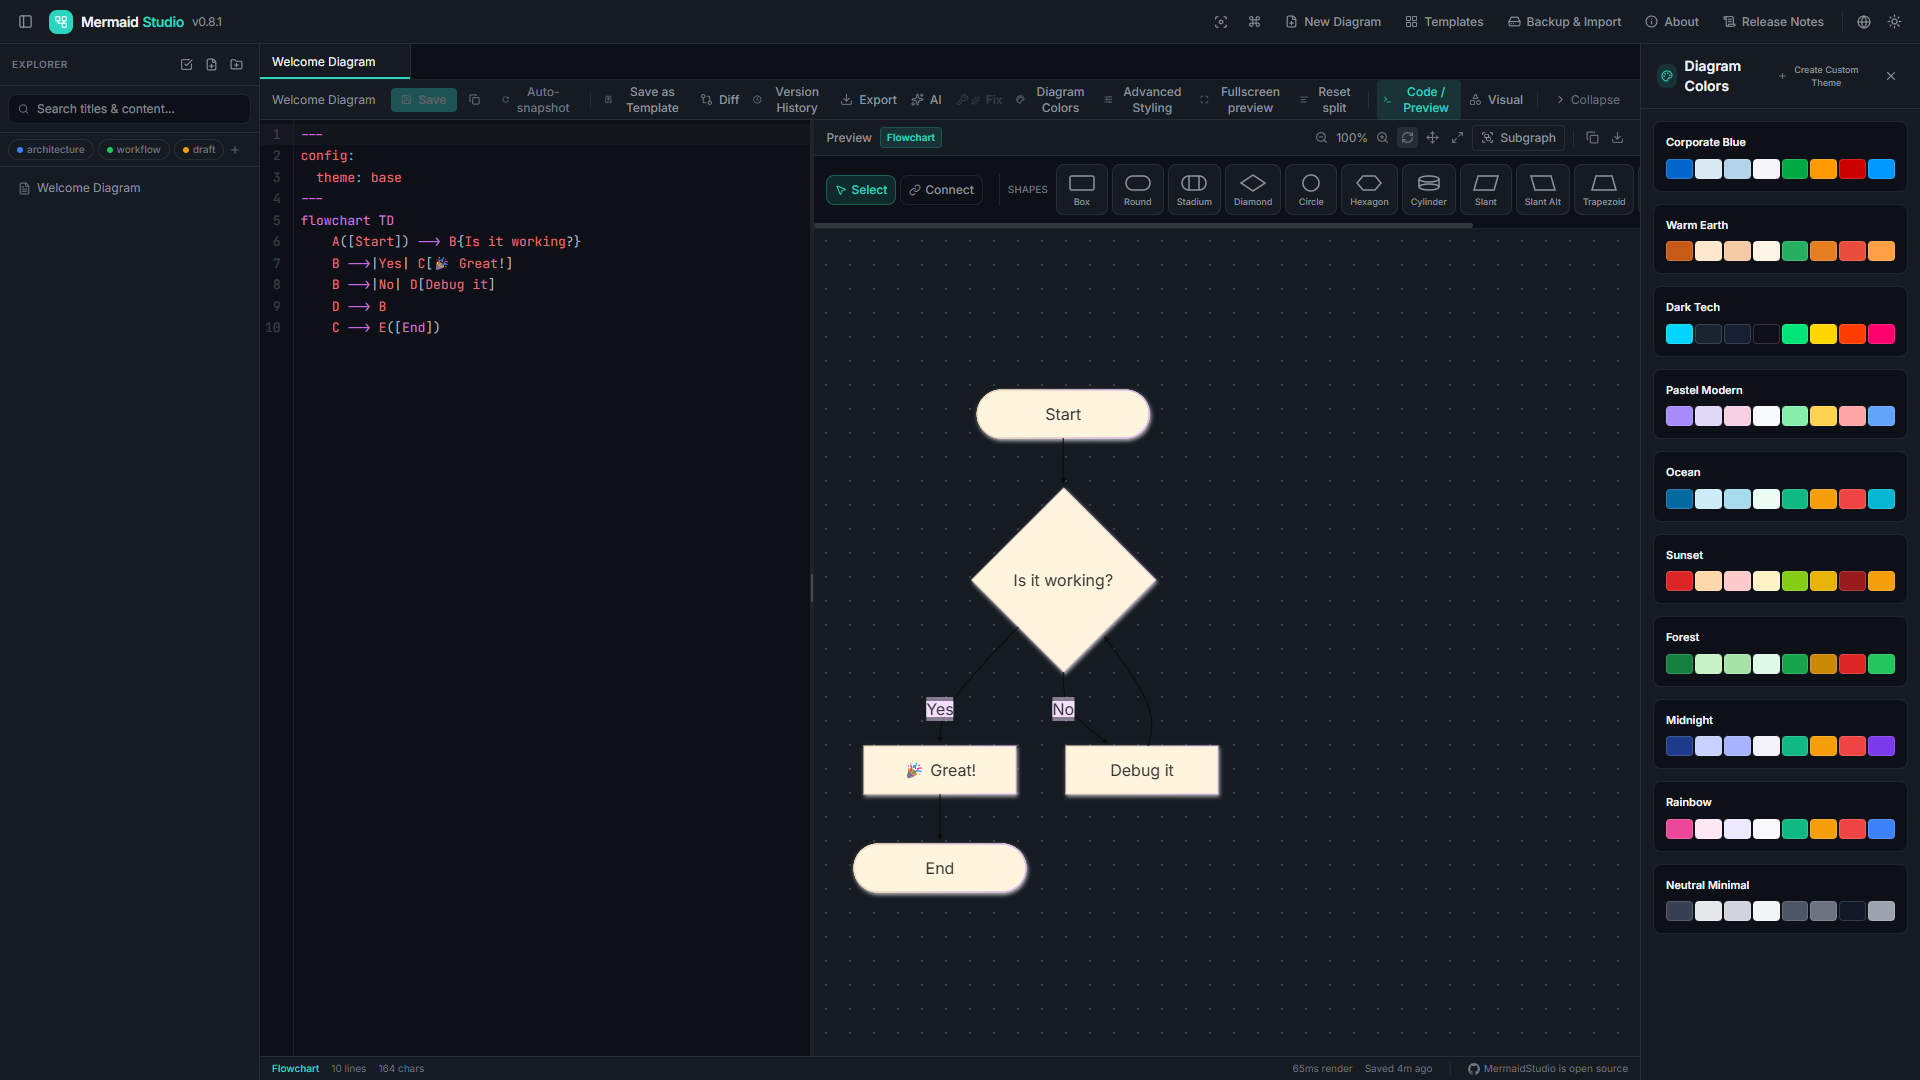
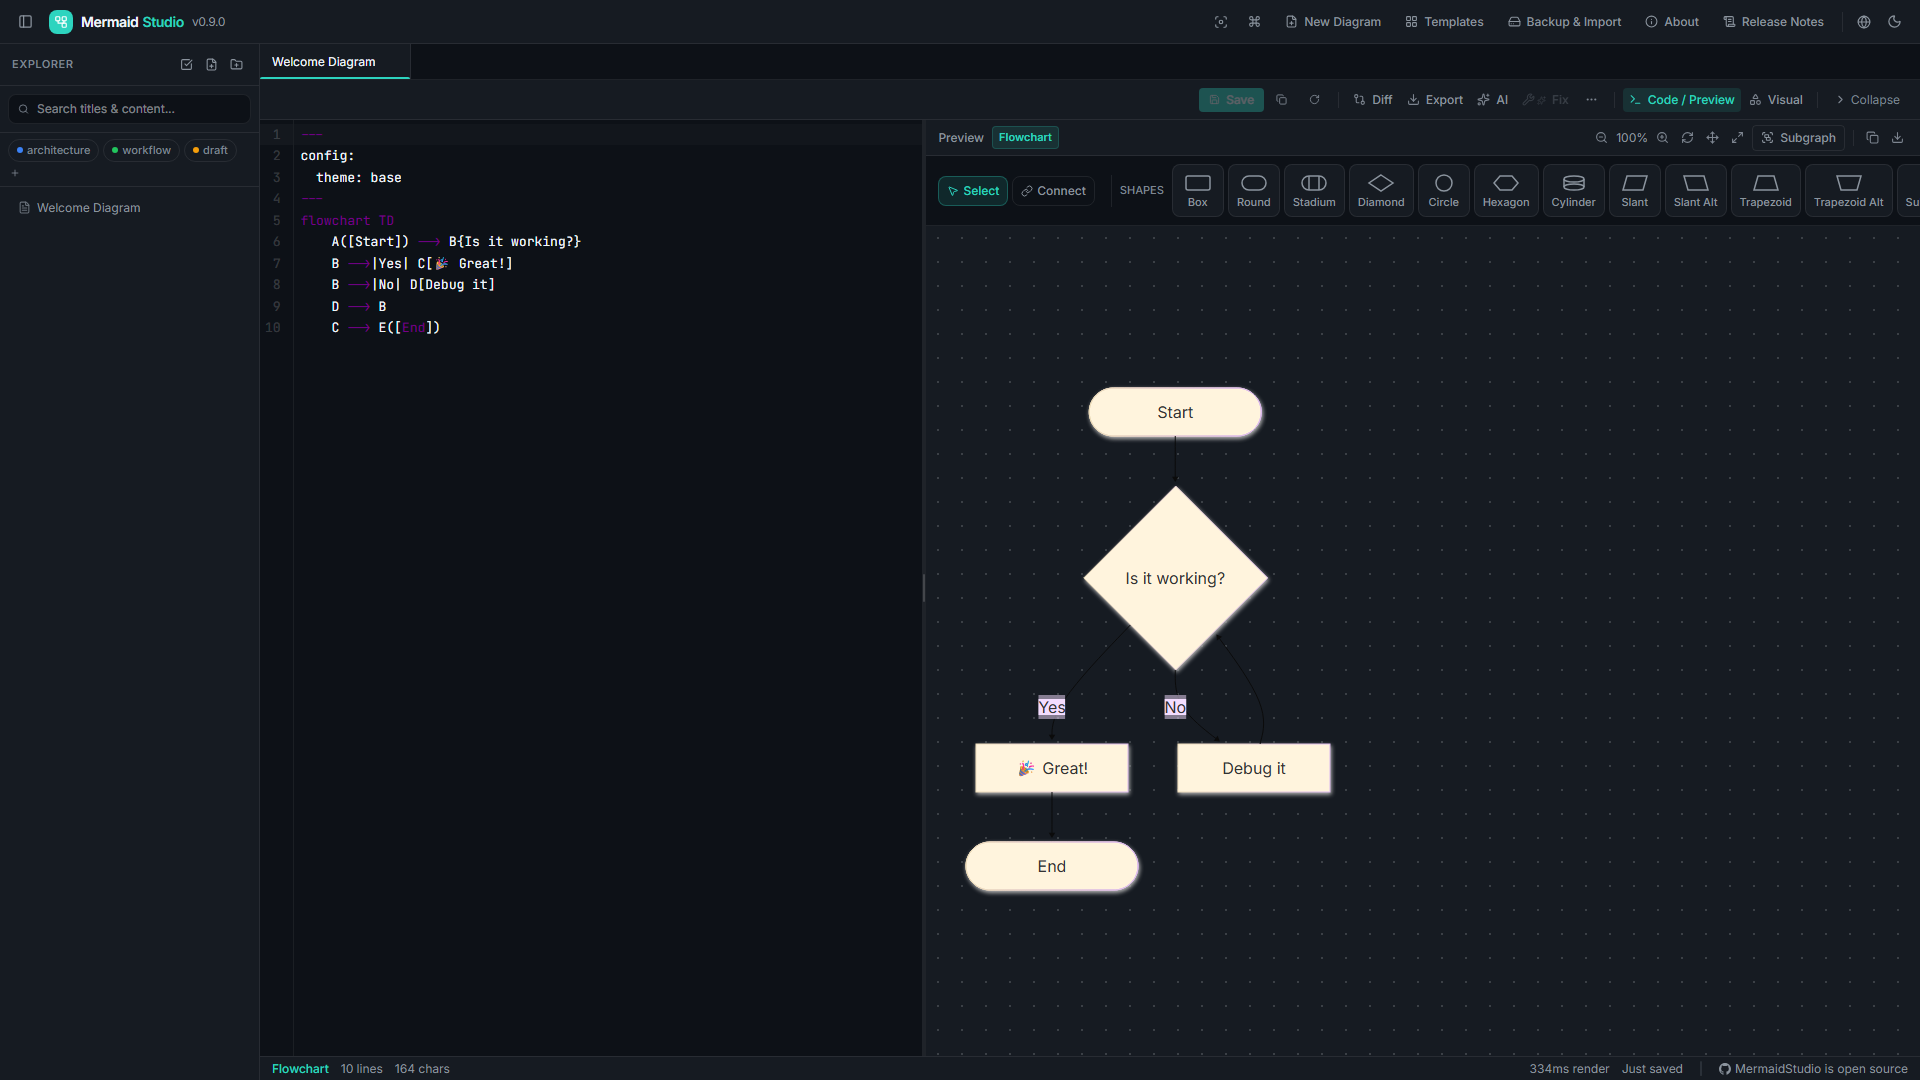
feat(seo): audit action plan — PWA assets, headers, SERP copy
Actions from the 10-agent SEO audit (Health Score 64/100):

- PWA assets generated from the running app (new reusable script
  scripts/capture-pwa-assets.mjs, Playwright): og-image.png (v0.9.0
  dark, 1920×1080 — replaces the stale v0.8.1 capture), screenshot-
  wide/narrow (manifest), icon-512/192 + apple-touch-icon rasterized
  from favicon.svg. Fixes the five 404s flagged by the audit.
- Security headers in vercel.json: X-Content-Type-Options, Referrer-
  Policy, Permissions-Policy, and CSP in Report-Only mode (7-day
  observation window before enforce — origins allowlisted from the
  served HTML; the foreignObject sanitization edge case makes CSP the
  natural defense-in-depth here).
- SERP copy: title 76 -> 51 chars ("MermaidStudio — Free Online
  Mermaid Diagram Editor", keyword "online" front-loaded — 10/10
  competing titles carry it, ours had zero occurrences), description
  171 -> ~150, crawlable shell gains an h2 addressing the "online /
  alternative to Mermaid Live Editor" intent.
- Schema: sameAs (GitHub + LinkedIn), codeRepository,
  softwareVersion via the %APP_VERSION% placeholder (auto-bumped).
- og-image:width/height/alt metas added; sitemap lastmod bumped to
  the deploy date; offline.html gets noindex (SW fallback page, must
  not be indexed — the SW itself still serves it offline).
- GitHub repo: homepage field corrected to mermaidstudio.net and 8
  topics added (done via gh CLI, outside this commit).
[…]

diff --git a/index.html b/index.html
@@ -12,9 +12,9 @@
     <meta name="viewport" content="width=device-width, initial-scale=1.0" />
 
     <!-- Primary Meta Tags -->
-    <title>MermaidStudio — Free Open-Source Mermaid Diagram Editor with In-Browser AI</title>
-    <meta name="title" content="MermaidStudio — Free Open-Source Mermaid Diagram Editor with In-Browser AI">
-    <meta name="description" content="Free, open-source Mermaid diagram editor: in-browser AI (WebGPU), drag-and-drop visual editor, folders and version history. No account — everything stays on your device.">
+    <title>MermaidStudio — Free Online Mermaid Diagram Editor</title>
+    <meta name="title" content="MermaidStudio — Free Online Mermaid Diagram Editor">
+    <meta name="description" content="Free, open-source Mermaid diagram editor that runs online in your browser — in-browser AI (WebGPU), drag-and-drop editing, folders and version history. No account.">
     <link rel="canonical" href="https://www.mermaidstudio.net/">
 
     <!-- Open Graph / Facebook -->
@@ -23,6 +23,9 @@
     <meta property="og:title" content="MermaidStudio — Free Open-Source Mermaid Diagram Editor">
     <meta property="og:description" content="In-browser AI (WebGPU), drag-and-drop visual editor, folders and version history. Free, open source, no account — everything stays on your device.">
     <meta property="og:image" content="https://www.mermaidstudio.net/og-image.png">
+    <meta property="og:image:width" content="1920">
+    <meta property="og:image:height" content="1080">
+    <meta property="og:image:alt" content="MermaidStudio editor: dark UI with code editor, live flowchart preview and version badge">
     <meta property="og:locale" content="en_US">
     <meta property="og:locale:alternate" content="fr_FR">
 
@@ -66,6 +69,12 @@
         "Multi-tab workspace with folders, tags and version history",
         "SVG/PNG export with themes and custom styling",
         "Offline-capable PWA with English and French UI"
+      ],
+      "softwareVersion": "%APP_VERSION%",
+      "codeRepository": "https://github.com/CatFoxVoyager/MermaidStudio",
+      "sameAs": [
+        "https://github.com/CatFoxVoyager/MermaidStudio",
+        "https://www.linkedin.com/in/jeremiedufault/"
       ]
     }
     </script>
@@ -135,6 +144,8 @@
       <main class="shell">
         <h1>MermaidStudio — Free &amp; Open-Source Mermaid Diagram Editor</h1>
         <p>Draw flowcharts, sequence diagrams, class diagrams, Gantt charts and mind maps directly in your browser — with a drag-and-drop visual editor, folders and version history, and an AI assistant that runs locally on your GPU. No account, no server: everything stays on your device.</p>
+        <h2>A free online Mermaid diagram editor — an open-source alternative to the Mermaid Live Editor</h2>
+        <p>Unlike cloud editors, MermaidStudio runs entirely on your machine: the editor works <strong>online</strong> in any modern browser with zero signup, keeps your diagrams private by default, and adds local version checkpoints you can diff and restore.</p>
         <ul>
           <li><strong>In-browser AI (WebGPU)</strong> — generate and fix diagrams with a local LLM; your code never leaves the machine.</li>
           <li><strong>Visual editor</strong> — drag-and-drop nodes and edges over the live Mermaid preview.</li>

diff --git a/public/offline.html b/public/offline.html
@@ -3,6 +3,7 @@
 <head>
   <meta charset="UTF-8">
   <meta name="viewport" content="width=device-width, initial-scale=1.0">
+  <meta name="robots" content="noindex">
   <title>Offline - MermaidStudio</title>
   <style>
     * { box-sizing: border-box; margin: 0; padding: 0; }
